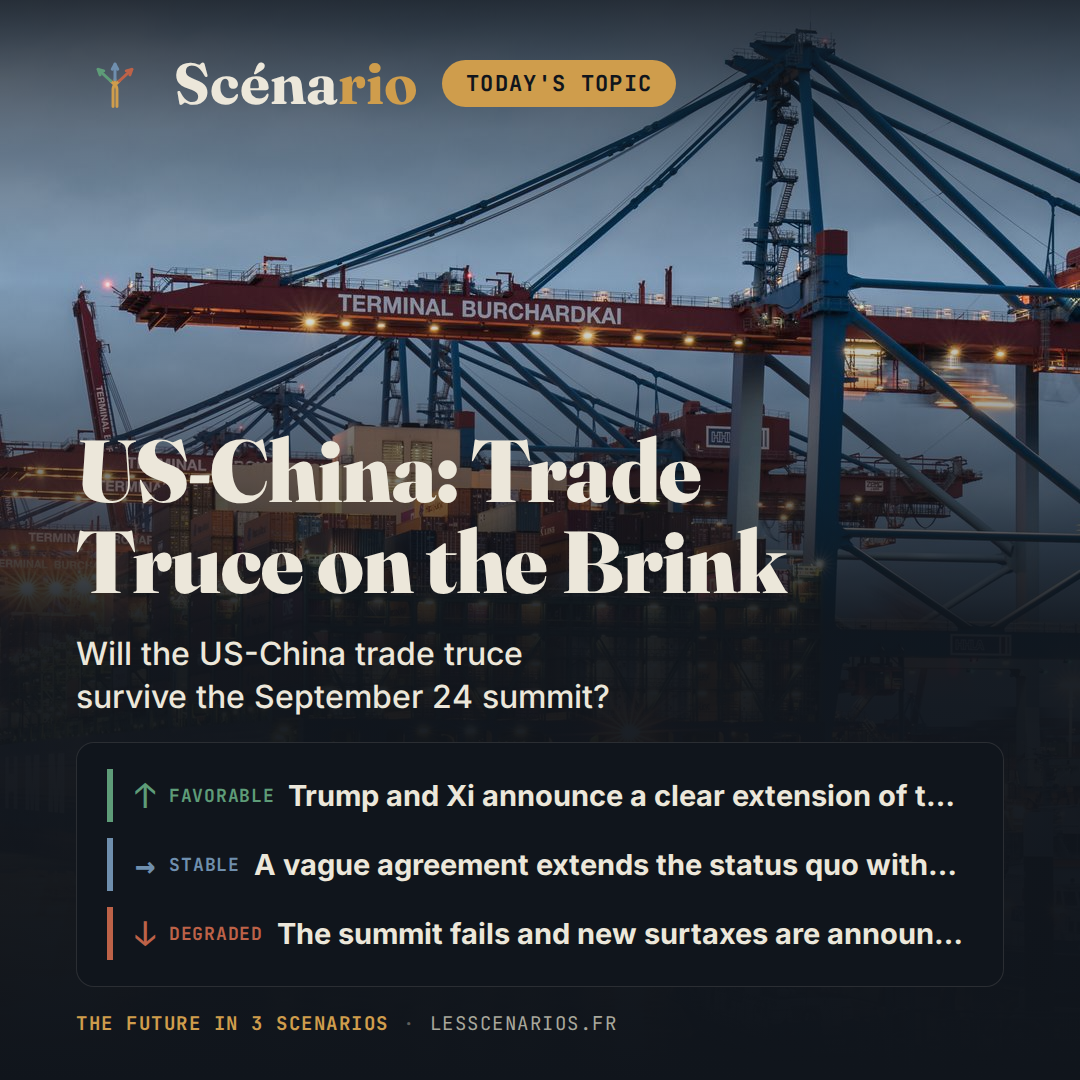
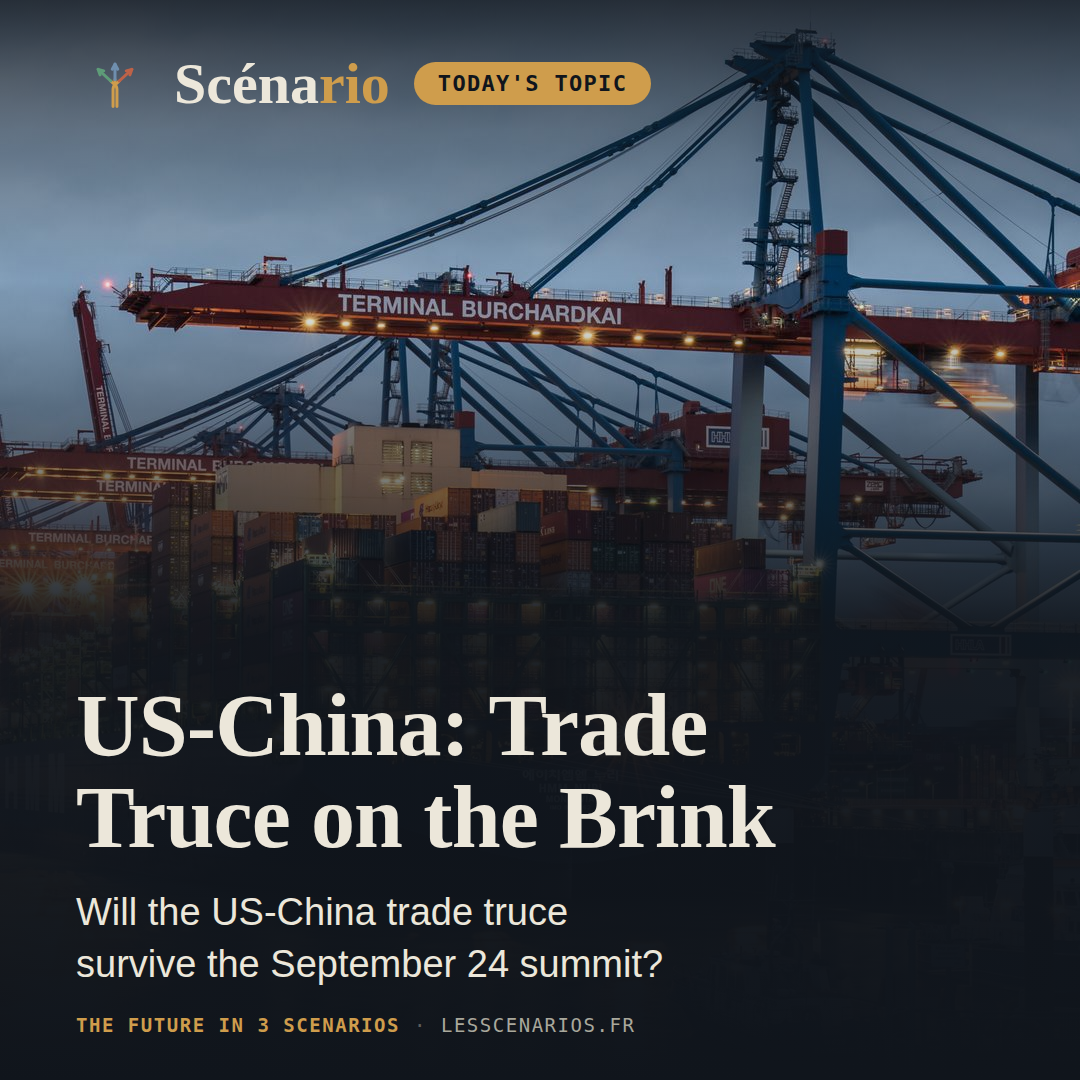
Fix EN social image format and missing section_title translation
Two distinct bugs found while investigating a user report that the EN
social image had a different visual format than the FR one:

1. EN Instagram templates (instagram-photo-template-en.html,
   instagram-template-en.html) were an outdated version of the FR ones:
   they still had a scenario-box/scenarios block with truncated text
   ("Trump and Xi announce a clear extension of t..."), while the FR
   templates had already been simplified to title+context+footer only.
   Removed the leftover scenario-box/scenarios CSS and markup from both
   EN templates to match FR exactly; also translated the CTA line
   ("👉 Le scénario le plus probable en bio" was never translated).
   generate_instagram_image.py only requires the scenarios JSON field
   when __SCENARIO_ROWS__ is present in the template, so translate_daily.py's
   generate_en_social_image() no longer builds/validates that field
   (also removes now-dead truncate_label()/SCENARIO_LABEL_MAX_CHARS).

2. Separate bug found in the same area: .scenarios .section-title was
   correctly collected and translated (used for the EN social image),
   but never re-injected into en/index.html itself — the h2 stayed in
   French on the actual published page despite a correct English
   translation being available. Added the missing set_inner_html() call,
   mirroring the existing h1 pattern. Fixed retroactively for the
   currently published 2026-09-21 edition (en/index.html +
[…]

Changed region(s): [[0.0611, 0.5806, 0.8861, 0.9778], [0.0611, 0.3972, 0.7333, 0.55], [0.1528, 0.0306, 0.6417, 0.1222]]

diff --git a/scripts/social/instagram-photo-template-en.html b/scripts/social/instagram-photo-template-en.html
@@ -78,52 +78,11 @@
   .context{
     font-family:"Inter", sans-serif;
     font-weight:500;
-    font-size: 32px;
+    font-size: 38px;
     line-height:1.35;
     color: var(--paper);
     text-wrap: balance;
   }
-
-  .scenario-box{
-    background: var(--ink);
-    border: 1px solid rgba(236,231,218,0.12);
-    border-radius: 18px;
-    padding: 26px 30px;
-    display:flex;
-    flex-direction:column;
-    gap:16px;
-  }
-  .scenario-row{
-    display:flex;
-    align-items:center;
-    gap:14px;
-    font-family:"Inter", sans-serif;
-    font-weight:700;
-    font-size:29px;
-    color: var(--paper);
-    padding: 4px 0 4px 22px;
-    border-left: 6px solid transparent;
-  }
-  .scenario-row .arrow{ font-family:"JetBrains Mono", monospace; font-size:34px; flex-shrink:0; }
-  /* Mot explicite (Favorable/Stable/Dégradé), ajouté le 24 août à côté
-     de la flèche — retour utilisateur : la couleur/flèche seule ne
-     "parle" qu'à qui connaît déjà le code du site. Le mot en toutes
-     lettres rend chaque ligne compréhensible isolément. */
-  .scenario-row .kind-word{
-    font-family:"JetBrains Mono", monospace;
-    font-weight:700;
-    font-size:18px;
-    letter-spacing:0.04em;
-    text-transform:uppercase;
-    flex-shrink:0;
-  }
-  .scenario-row .label{ flex:1; min-width:0; white-space:nowrap; overflow:hidden; text-overflow:ellipsis; }
-  .scenario-row[data-kind="favorable"]{ border-color: var(--favorable); }
-  .scenario-row[data-kind="favorable"] .arrow, .scenario-row[data-kind="favorable"] .kind-word{ color: var(--favorable); }
-  .scenario-row[data-kind="stable"]{ border-color: var(--stable); }
-  .scenario-row[data-kind="stable"] .arrow, .scenario-row[data-kind="stable"] .kind-word{ color: var(--stable); }
-  .scenario-row[data-kind="degrade"]{ border-color: var(--degrade); }
-  .scenario-row[data-kind="degrade"] .arrow, .scenario-row[data-kind="degrade"] .kind-word{ color: var(--degrade); }
 
   .footer{
     display:flex; align-items:baseline; gap:14px;
@@ -205,10 +164,6 @@
     <div class="headline">__TITLE__</div>
 
     <div class="context">__CONTEXT__</div>
-
-    <div class="scenario-box">
-      __SCENARIO_ROWS__
-    </div>
 
     <div class="footer"><span class="tagline">The future in 3 scenarios</span><span class="sep">·</span><span class="url">lesscenarios.fr</span></div>
   </div>

diff --git a/scripts/social/instagram-template-en.html b/scripts/social/instagram-template-en.html
@@ -86,43 +86,6 @@
     margin-top: 20px;
   }
 
-  .scenarios{
-    display:flex;
-    flex-direction:column;
-    gap:26px;
-    margin-top: 16px;
-  }
-  .scenario-row{
-    display:flex;
-    align-items:center;
-    gap:14px;
-    font-family:"Inter", sans-serif;
-    font-weight:700;
-    font-size:32px;
-    color: var(--paper);
-    padding: 6px 0 6px 28px;
-    border-left: 7px solid transparent;
-  }
-  .scenario-row .arrow{ font-family:"JetBrains Mono", monospace; font-size:38px; flex-shrink:0; }
-  /* Mot explicite (Favorable/Stable/Dégradé), ajouté le 24 août — voir
-     instagram-photo-template.html pour la raison (la couleur/flèche
-     seule ne "parle" qu'à qui connaît déjà le code du site). */
-  .scenario-row .kind-word{
-    font-family:"JetBrains Mono", monospace;
-    font-weight:700;
-    font-size:19px;
-    letter-spacing:0.04em;
-    text-transform:uppercase;
-    flex-shrink:0;
-  }
-  .scenario-row .label{ flex:1; min-width:0; white-space:nowrap; overflow:hidden; text-overflow:ellipsis; }
-  .scenario-row[data-kind="favorable"]{ border-color: var(--favorable); }
-  .scenario-row[data-kind="favorable"] .arrow, .scenario-row[data-kind="favorable"] .kind-word{ color: var(--favorable); }
-  .scenario-row[data-kind="stable"]{ border-color: var(--stable); }
-  .scenario-row[data-kind="stable"] .arrow, .scenario-row[data-kind="stable"] .kind-word{ color: var(--stable); }
-  .scenario-row[data-kind="degrade"]{ border-color: var(--degrade); }
-  .scenario-row[data-kind="degrade"] .arrow, .scenario-row[data-kind="degrade"] .kind-word{ color: var(--degrade); }
-
   .cta{
     font-family: "JetBrains Mono", monospace;
     font-weight:700;
@@ -170,11 +133,7 @@
 
   <div class="context">__CONTEXT__</div>
 
-  <div class="scenarios">
-    __SCENARIO_ROWS__
-  </div>
-
-  <div class="cta">👉 Le scénario le plus probable en bio</div>
+  <div class="cta">👉 The most likely scenario in bio</div>
 
   <div class="footer"><span class="tagline">The future in 3 scenarios</span><span class="sep">·</span><span class="url">lesscenarios.fr</span></div>
 </body></html>

diff --git a/en/archives/2026-09-21.html b/en/archives/2026-09-21.html
@@ -1908,7 +1908,7 @@
 <section class="scenarios" id="scenarios">
 <div class="wrap">
 <p class="section-label">Favorable, stable, or degraded</p>
-<h2 class="section-title">La trêve commerciale USA-Chine va-t-elle survivre au sommet du 24 septembre ?</h2>
+<h2 class="section-title">Will the US-China trade truce survive the September 24 summit?</h2>
 <div class="stakes-box">
 <span class="stakes-label">What we're assessing</span>
 <ul class="stakes-branches">

diff --git a/en/index.html b/en/index.html
@@ -1908,7 +1908,7 @@
 <section class="scenarios" id="scenarios">
 <div class="wrap">
 <p class="section-label">Favorable, stable, or degraded</p>
-<h2 class="section-title">La trêve commerciale USA-Chine va-t-elle survivre au sommet du 24 septembre ?</h2>
+<h2 class="section-title">Will the US-China trade truce survive the September 24 summit?</h2>
 <div class="stakes-box">
 <span class="stakes-label">What we're assessing</span>
 <ul class="stakes-branches">

diff --git a/scripts/en/translate_daily.py b/scripts/en/translate_daily.py
@@ -1018,6 +1018,17 @@ def build_en_soup(fr_soup, date_str, translations, memory, en_image_url, for_arc
     if qtext:
         set_inner_html(qtext, tr("question_text", inner_html(qtext)))
 
+    # Ajouté le 21 septembre 2026 : le segment section_title était bien
+    # collecté (collect_segments(), même sélecteur ci-dessous) et
+    # correctement traduit — utilisé par generate_en_social_image() pour
+    # l'image Instagram EN — mais jamais réinjecté dans en/index.html
+    # lui-même, qui gardait donc le h2.section-title en français malgré
+    # une traduction anglaise déjà disponible (incident découvert en
+    # vérifiant le format de l'image sociale EN).
+    section_title = soup.select_one(".scenarios .section-title")
+    if section_title:
+        set_inner_html(section_title, tr("section_title", inner_html(section_title)))
+
     for i, dek in enumerate(soup.select(".dek")):
         set_inner_html(dek, tr(f"dek_{i}", inner_html(dek)))
 
@@ -1269,27 +1280,6 @@ def strip_to_text(html_fragment):
     return BeautifulSoup(html_fragment or "", "html.parser").get_text().strip()
 
 
-# .scenario-row .label des templates instagram-*-en.html est en une seule
-# ligne (white-space:nowrap + text-overflow:ellipsis, voir ces fichiers) —
-# conçu pour les labels courts que la routine FR écrit à la main
-# spécifiquement pour l'image (docs/routine-prompt.md étape technique 8).
-# Ici on réutilise le <h3> de carte déjà traduit (voir plus haut) : plus
-# long par nature, et l'anglais rallonge encore le texte à sens égal —
-# testé en conditions réelles (édition du 12 septembre) : un label de 56
-# caractères se coupait déjà en plein mot ("...cut ..."). Tronché nous-
-# mêmes sur un espace, avec de vraies points de suspension, plutôt que de
-# laisser le CSS couper au pixel près (rendu imprévisible selon la
-# largeur réelle des caractères).
-SCENARIO_LABEL_MAX_CHARS = 52
-
-
-def truncate_label(text, max_chars=SCENARIO_LABEL_MAX_CHARS):
-    if len(text) <= max_chars:
-        return text
-    cut = text[:max_chars].rsplit(" ", 1)[0].rstrip(",;:.")
-    return f"{cut}…"
-
-
 def generate_en_social_image(date_str, translations):
     """Génère en/assets/social/instagram/{date}.png via
     generate_instagram_image.py --lang en. Ne lève jamais d'exception :
@@ -1316,16 +1306,22 @@ def generate_en_social_image(date_str, translations):
         template = REPO_ROOT / "scripts" / "social" / "instagram-template-en.html"
         photo_arg = []
 
+    # scenarios retiré du JSON le 21 septembre 2026 : les templates
+    # (instagram-photo-template.html / instagram-template.html) n'ont
+    # plus de bloc scénarios depuis leur simplification côté FR (fusion
+    # accroche+contexte en un seul paragraphe) — le template EN, lui,
+    # n'avait jamais été mis à jour et affichait encore une scenario-box
+    # au texte tronqué (incident du 21 septembre 2026 : l'image sociale
+    # EN avait un format visuel différent de la FR). Les templates EN
+    # sont maintenant alignés sur les FR, donc ce champ est retiré ici
+    # aussi (generate_instagram_image.py ne l'exige que si le template
+    # contient encore __SCENARIO_ROWS__, voir sa docstring).
     data = {
         "title": strip_to_text(translations.get("h1", "")),
         "context": strip_to_text(translations.get("section_title", "")),
-        "scenarios": [
-            {"kind": kind, "label": truncate_label(strip_to_text(translations.get(f"card_{kind}_h3", "")))}
-            for kind in ("favorable", "stable", "degrade")
-        ],
     }
-    if not data["title"] or not data["context"] or not all(s["label"] for s in data["scenarios"]):
-        print("Image sociale EN : segment(s) manquant(s) (h1/section_title/card_*_h3) — "
+    if not data["title"] or not data["context"]:
+        print("Image sociale EN : segment(s) manquant(s) (h1/section_title) — "
               "image générique gardée à la place.", file=sys.stderr)
         return fallback
 
